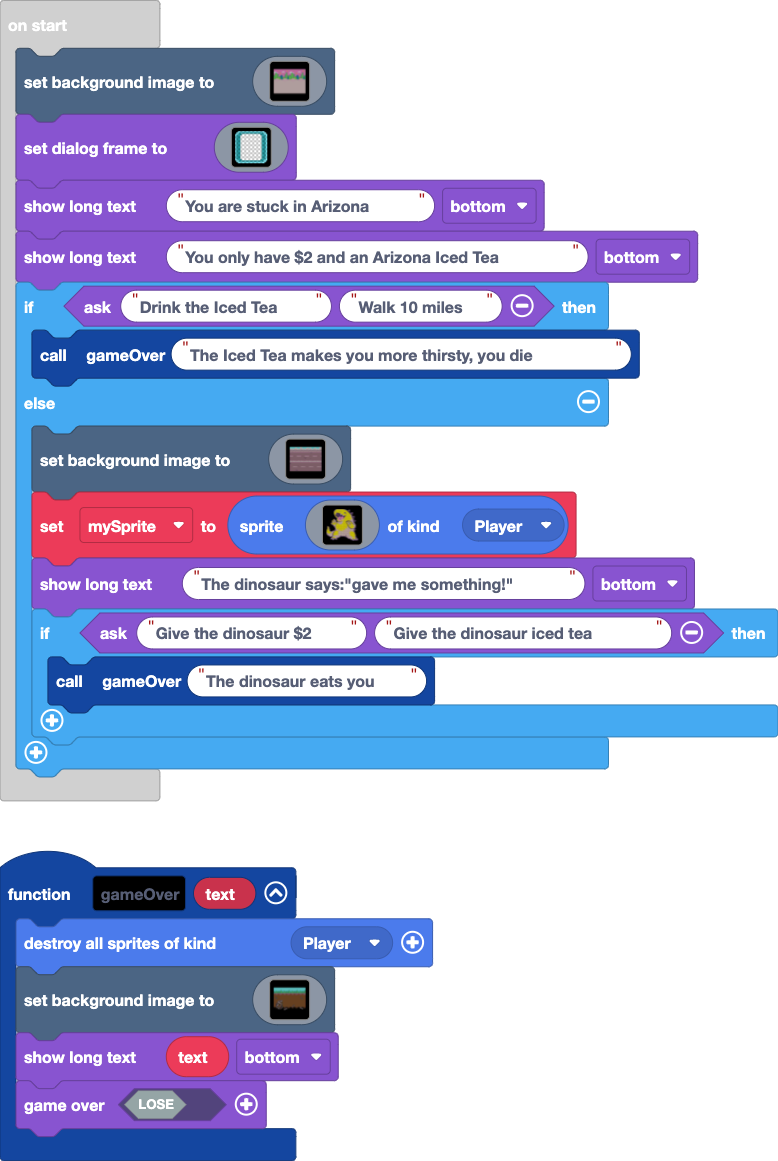
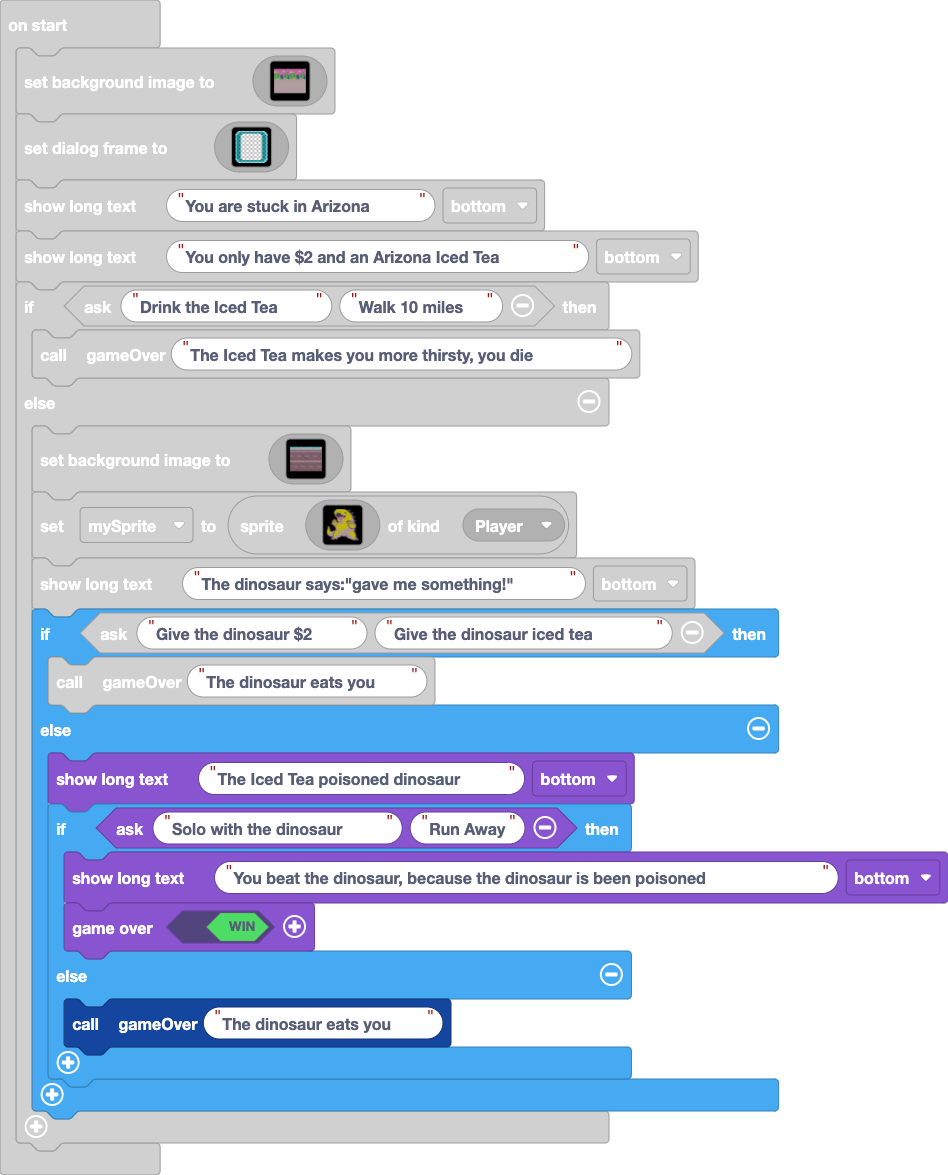
finished game

diff --git a/main.ts b/main.ts
@@ -482,5 +482,13 @@ if (game.ask("Drink the Iced Tea", "Walk 10 miles")) {
     game.showLongText("The dinosaur says:\"gave me something!\"", DialogLayout.Bottom)
     if (game.ask("Give the dinosaur $2", "Give the dinosaur iced tea ")) {
         gameOver("The dinosaur eats you")
+    } else {
+        game.showLongText("The Iced Tea poisoned dinosaur", DialogLayout.Bottom)
+        if (game.ask("Solo with the dinosaur", "Run Away")) {
+            game.showLongText("You beat the dinosaur, because the dinosaur is been poisoned ", DialogLayout.Bottom)
+            game.over(true)
+        } else {
+            gameOver("The dinosaur eats you")
+        }
     }
 }
